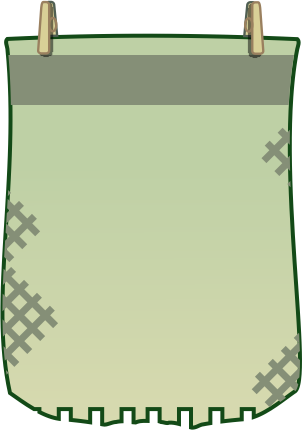
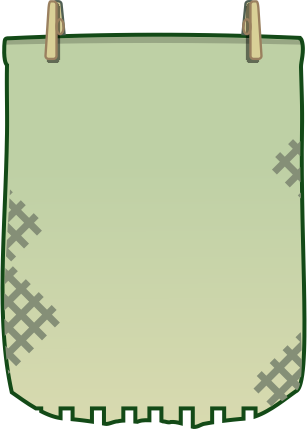
Pequenos Ajustes
Adicionado bordas ao teaser e algumas imagens; textos do varal encurtados e background do h2 passou a ser em linha de código.

diff --git a/index.html b/index.html
@@ -42,13 +42,14 @@
                         <h2 class="floating-header">Teaser</h2>
                         <!--Teaser-->
                         <iframe class="video" id="video" src="https://www.youtube.com/embed/2KSFwklvzho?controls=0" title="Teaser Mumu's Hill" frameborder="0" allow="accelerometer; autoplay; clipboard-write; encrypted-media; gyroscope; picture-in-picture" allowfullscreen></iframe>
+                        <div class="mask"></div>
         
                     </div>
             
                     <!--    TEXTO   -->
                     <div class="sec-side">
 
-                        <h2 class="floating-header">VAMOS JOGAR?</h2>
+                        <h2 class="floating-header">VAMOS BRINCAR?</h2>
                         <div class="floating-support"></div>
 
 
@@ -78,27 +79,27 @@
                     <!--    CONTEÚDO A    -->
                     <div class="varal" id="varal-a" onclick="slideContent(1)">
                         <h2>CONSTRUA</h2>
-                        <img src="images/body/demo/morro-personalizado.png" alt="Morro">
+                        <img src="images/body/demo/Construa.png" alt="Morro">
                         <p>
-                            Colete recursos para construir casas, lojas ou decorações para o seu morro.
+                            Colete recursos para construir casas, lojas e decorações.
                         </p>
                     </div>
             
                     <!--    CONTEÚDO B  -->
                     <div class="varal" id="varal-b" onclick="slideContent(2)">
                         <h2>NEGOCIE</h2>
-                        <img src="images/body/demo/mercado.png" alt="">
+                        <img src="images/body/demo/Negocie.png" alt="">
                         <p>
-                            Compre e venda personagens, ferramentas e recursos com outros jogadores.
+                            Venda personagens e recursos para outros jogadores.
                         </p>
                     </div>
             
                     <!--    CONTEÚDO C  -->
                     <div class="varal" id="varal-c" onclick="slideContent(3)">
                         <h2>SOBREVIVA</h2>
-                        <img src="images/body/demo/equipes.png" alt="">
+                        <img src="images/body/demo/Sobreviva.png" alt="">
                         <p>
-                            Construa torres defensivas enquanto luta pela sua vida no modo sobrevivência.
+                            Construa torres defensivas enquanto luta pela sua vida.
                         </p>
                     </div>
             
@@ -131,8 +132,11 @@
                     <h2 class="floating-header">FASE DE COLETA</h2>
                     <div class="floating-support"></div>
 
+                    <div class="img-side">
+                        <img src="images/body/info/whitepaper.png" alt="">
+                        <div class="mask"></div>
+                    </div>
 
-                    <img class="img-side" src="images/body/info/whitepaper.png" alt="">
                     <div class="content-side">
                         <p>Ainda não lançamos o jogo, mas a boa notícia é que você pode participar da primeira fase de testes!</p>
                         <a target="_blank" href="https://margina-participacoes.gitbook.io/mumus-hill-whitepaper/">Saiba Mais</a>
@@ -145,8 +149,11 @@
                     <h2 class="floating-header">PANO NAS REDES</h2>
                     <div class="floating-support"></div>
 
-
-                    <img class="img-side" src="images/body/info/Pano.png" alt="Pano criando um amigurumi">
+                    <div class="img-side">
+                        <img src="images/body/info/Pano.png" alt="Pano criando um amigurumi">
+                        <div class="mask"></div>
+                    </div>
+                    
                     <div class="content-side">
                         <p>Siga a Pano e fique por dentro de tudo que ela está aprontando.</p>
                         <a target="_blank" href="https://www.instagram.com/mumushill.pano/">Instagram</a>
@@ -163,7 +170,9 @@
 
     <!--    RODAPÉ  -->
     <footer>
-        <p>Mumu's Hill - Studio Margina - 2022</p>
+        <div>
+            <p>Mumu's Hill - Studio Margina - 2022</p>
+        </div>
     </footer>
 </body>
 </html>

diff --git a/CSS/layout.css b/CSS/layout.css
@@ -35,9 +35,8 @@ article header
 footer{
     color: white;
     margin: auto;
-    justify-content: center;
-    align-items: center;
     min-height: 200px;
+    padding-top: 86px;
     display: flex;
 }
 .sec-full-flex
@@ -84,7 +83,7 @@ footer{
     align-items: center;
     text-align: center;
 }
-.abs-center
+.abs-center, .mask
 {
     position: absolute;
     top: 50%;
@@ -101,6 +100,12 @@ footer{
     justify-content: center;
     width: 100%;
     max-width: 1250px;
+}
+footer div{
+    display: inherit;
+    width: 100%;
+    justify-content: center;
+    align-items: center;
 }
 
 /**************************************************
@@ -140,9 +145,22 @@ footer{
     display: none;
 }
 
-.img-side{
+.img-side
+{
     vertical-align: top;
-    /*margin:5px;*/
+    position: relative;
+}
+.mask
+{
+    pointer-events: none;
+    z-index: 1;
+    width: 97%;
+    height: 95%;
+}
+.img-side .mask
+{
+    width: 110%;
+    height: 110%;
 }
 .varal img
 {
@@ -173,8 +191,9 @@ h1
     width: 50%;
     top: -10%;
     left: 50%;
-    transform: translate(-50%,-50%) rotate(10deg);
+    transform: translate(-50%,-50%) rotate(7deg);
     padding: 5%;
+    z-index: 2;
 
 }
 .floating-support

diff --git a/CSS/content.css b/CSS/content.css
@@ -12,6 +12,7 @@
     --color-spray-paragraph: rgb(24,32,45);
     --color-sewing: rgb(99,72,10);
     --color-sewing-weak: rgb(171, 141, 70);
+    --color-background-itens: rgb(154,128,95);
 
     --background-section-side: rgb(89, 128, 139);
     --background-varal-a: rgb(171, 207, 171);
@@ -71,8 +72,13 @@ a:hover
 }
 #gameplay
 {
-    background-image: url('../images/body/bg-A.png');
+    /*background-image: url('../images/body/bg-A.png');
+    background-repeat: no-repeat;*/
+}
+.mask{
+    background-image: url('../images/body/fita-border.png');
     background-repeat: no-repeat;
+    background-size: 100% 100%;
 }
 #wraper
 {
@@ -112,8 +118,10 @@ a:hover
 .varal > h2
 {
     color: white;
+    background-color: rgba(0, 0, 0, 0.3);
     letter-spacing: var(--font-spacing-h2);
-    
+    width: 104%;
+    padding: 18px 0px;
 }
 
 h1
@@ -156,5 +164,10 @@ p
 }
 
 footer{
-    background-color: var(--color-sewing-weak);
+    background-image: url('../images/body/bg-B.png');
+    background-repeat: no-repeat;
+    background-position-x: center;
+}
+footer > div{
+    background-color: var(--color-background-itens);
 }
